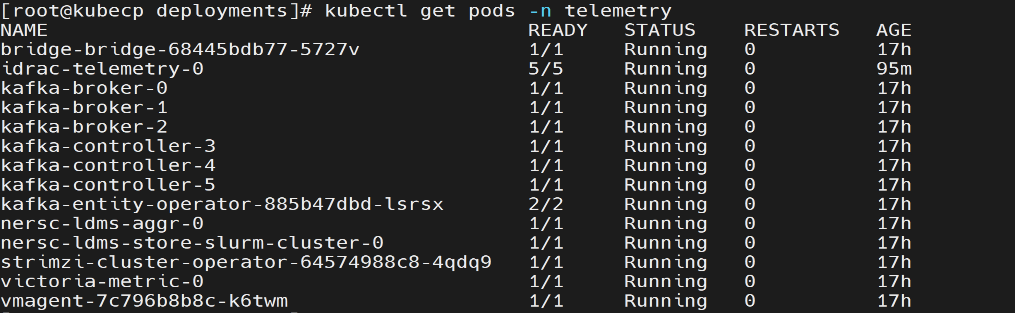
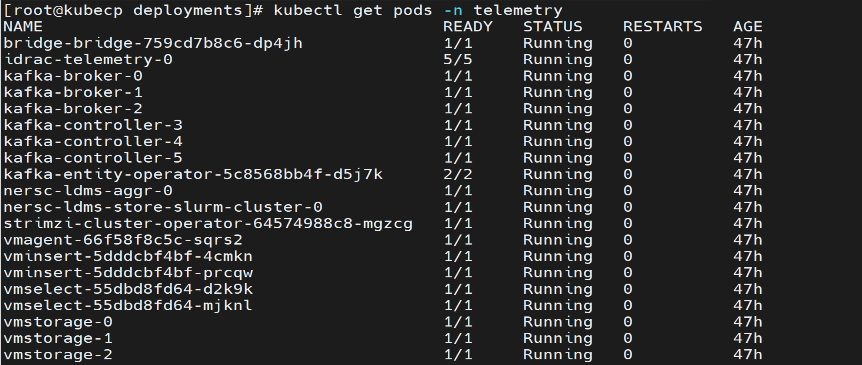
Updated for the defect.

Changed region(s): [[0.0, 0.0, 0.9049, 1.0]]

diff --git a/docs/source/OmniaInstallGuide/RHEL_new/Telemetry/verify_telemetry.rst b/docs/source/OmniaInstallGuide/RHEL_new/Telemetry/verify_telemetry.rst
@@ -1,5 +1,5 @@
 Step 16: Verify Telemetry Services deployed on the cluster
-=========================================================
+===========================================================
 
 This section outlines the steps to validate telemetry services and their components, including checking pod status, 
 verifying message flow, confirming TLS connectivity, and reviewing collected telemetry data.
@@ -36,18 +36,10 @@ To verify kubernetes telmetry services attached to the iDRAC Telemetry, Kafka, L
 
 2. Ensure the following services entries exist:
 
-    * bridge-bridge-lb
-    * bridge-bridge-service
-    * idrac-telemetry-service
-    * kafka-broker-0
-    * kafka-broker-1
-    * kafka-broker-2
-    * kafka-kafka-bootstrap
-    * kafka-kafka-brokers
-    * kafka-kafka-external-bootstrap
-    * nersc-ldms-aggr
-    * nersc-ldms-store
-    * victoria-loadbalancer
+    * iDRAC Telemetry service
+    * Kafka broker, controller, and bridge services
+    * LDMS aggregator and store services
+    * VictoriaMetrics service
 
 The following is the sample output file:
 
@@ -61,7 +53,7 @@ To verify that iDRAC telemetry data is being successfully published to the ``idr
 
 1. Create a Kafka consumer using the following command::
 
-    curl -X POST http://10.11.0.100:8080/consumers/idrac-consumer-group \
+    curl -X POST http://<<external loadbalancer IP of the bridge-bridge-lb service>>:8080/consumers/idrac-consumer-group \
       -H 'content-type: application/vnd.kafka.v2+json' \
       -d '{
             "name": "idrac-consumer-1",
@@ -71,14 +63,14 @@ To verify that iDRAC telemetry data is being successfully published to the ``idr
 
 2. Subscribe the consumer to the telemetry topic using the following command::
 
-    curl -X POST http://10.11.0.100:8080/consumers/idrac-consumer-group/instances/idrac-consumer-1/subscription \
+    curl -X POST http://<external loadbalancer IP of the bridge-bridge-lb service>:8080/consumers/idrac-consumer-group/instances/idrac-consumer-1/subscription \
       -H 'content-type: application/vnd.kafka.v2+json' \
       -d '{"topics": ["idrac"]}'
 
 3. Consume messages from the topic using the following command::
   
-    curl -X GET http://10.11.0.100:8080/consumers/idrac-consumer-group/instances/idrac-consumer-1/records \
-      -H 'accept: application/vnd.kafka.json.v2+json' | jq '.'
+    while true; do curl -X GET http://<external loadbalancer IP of the bridge-bridge-lb service>:8080/consumers/idrac-consumer-group/instances/idrac-consumer-1/records \
+      -H 'accept: application/vnd.kafka.json.v2+json' | jq '.' ;  sleep 2; done
 
 If telemetry metrics are collected correctly, the output contains JSON-formatted iDRAC telemetry records.
 
@@ -89,7 +81,7 @@ To verify that LDMS telemetry data is being successfully published to the ``ldms
 
 1. Create a Kafka consumer using the following command::
 
-    curl -X POST http://10.11.0.100:8080/consumers/ldms-consumer-group \
+    curl -X POST http://<external loadbalancer IP of the bridge-bridge-lb service>:8080/consumers/ldms-consumer-group \
       -H 'content-type: application/vnd.kafka.v2+json' \
       -d '{
             "name": "ldms-consumer-1",
@@ -100,14 +92,14 @@ To verify that LDMS telemetry data is being successfully published to the ``ldms
 
 2. Subscribe the consumer to the LDMS topic using the following command::
 
-    curl -X POST http://10.11.0.100:8080/consumers/ldms-consumer-group/instances/ldms-consumer-1/subscription \
-      -H 'content-type: application/vnd.kafka.v2+json' \
+    curl -X POST http://<external loadbalancer IP of the bridge-bridge-lb service>:8080/consumers/ldms-consumer-group/instances/ldms-consumer-1/subscription \
+      -H 'content-type: application/vnd.kafka.v2+json' \ 
       -d '{"topics": ["ldms"]}'
 
 3. Consume messages from the topic using the following command::
 
-    curl -X GET http://10.11.0.100:8080/consumers/ldms-consumer-group/instances/ldms-consumer-1/records \
-      -H 'accept: application/vnd.kafka.json.v2+json' | jq '.'
+     while true; do curl -X GET http://<external loadbalancer IP of the bridge-bridge-lb service>:8080/consumers/ldms-consumer-group/instances/ldms-consumer-1/records \
+      -H 'accept: application/vnd.kafka.json.v2+json' | jq '.' ;  sleep 2; done
 
 If telemetry is flowing correctly, the output contains JSON-formatted LDMS telemetry records.
 
@@ -117,6 +109,7 @@ Verify Kafka TLS Connectivity
 To verify TLS connectivity for Kafka, run the Kafka TLS test job to verify that
 certificates, truststores, keystores, and mTLS communication are functioning correctly::
 
+    cd /<nfs client mount path of the service k8s cluster>/telemetry/deployments/test
     kubectl apply -f kafka.tls_test_job.yaml
 
 After the job completes, check the logs to confirm that the TLS connection is successful::
@@ -130,6 +123,7 @@ Verify VictoriaMetrics TLS Connectivity
 To verify TLS connectivity for VictoriaMetrics, run the VictoriaMetrics TLS test job to
 verify that certificates and secure connectivity are functioning correctly::
 
+    cd /<nfs client mount path of the service k8s cluster>/telemetry/deployments/test
     kubectl apply -f victoria-tls-test-job.yaml
 
 After the job completes, check the logs to confirm that the TLS connection is successful::
@@ -137,10 +131,15 @@ After the job completes, check the logs to confirm that the TLS connection is su
     kubectl logs victoria-tls-test-xxx -n telemetry    
 
 
-View collected iDRAC telemetry data using Victoria Metrics UI (VMUI)
----------------------------------------------------------------------
+View collected iDRAC telemetry data using Victoria Metrics UI (VMUI) - Single Mode Deployment
+----------------------------------------------------------------------------------------------
 
-After applying the ``telemetry.yml`` configuration using the VictoriaMetrics collection type, follow these steps to verify and view the collected telemetry:
+After applying the ``telemetry.yml`` configuration using the VictoriaMetrics deployment mode as ``single-node``, 
+use the (VMUI) to validate that iDRAC telemetry data is being collected and stored 
+successfully in a single-mode VictoriaMetrics deployment. For more details, see
+ `VictoriaMetrics Single Server documentation <https://docs.victoriametrics.com/victoriametrics/single-server-victoriametrics/>`_.
+
+
 
 1. Run the following command to verify that the VictoriaMetrics pod is running::
 
@@ -158,7 +157,7 @@ After applying the ``telemetry.yml`` configuration using the VictoriaMetrics col
 
 4. Access the VMUI in a web browser using::
 
-       http://<external IP>:8428/vmui
+       http://<external victoria metrics loadbalancer IP>:8428/vmui
 
 5. Filter and view telemetry metrics using queries in VMUI.
    For example, the following query displays detailed temperature
@@ -167,6 +166,42 @@ After applying the ``telemetry.yml`` configuration using the VictoriaMetrics col
        {name="PowerEdge_TemperatureReading", FQDD!=""}
 
    .. image:: ../../../images/victoria_metrics_vmui.png
+
+
+
+View collected iDRAC telemetry data using Victoria Metrics UI (VMUI) - Cluster Mode Deployment
+----------------------------------------------------------------------------------------------
+
+After applying the ``telemetry.yml`` configuration using the VictoriaMetrics deployment mode as ``cluster``, 
+use the (VMUI) to validate that iDRAC telemetry data is being collected and stored 
+successfully in a cluster mode VictoriaMetrics deployment. For more details, see 
+`VictoriaMetrics Cluster deployment documentation <https://docs.victoriametrics.com/victoriametrics/cluster-victoriametrics/>`_.
+
+1. Run the following command to verify that the VictoriaMetrics pod is running::
+
+       kubectl get pods -n telemetry -o wide | grep vm
+
+   .. image:: ../../../images/victoria_metrics_pod_cluster_mode.png
+
+2. Run the following command to verify that the VictoriaMetrics service is running::
+
+       kubectl get service -n telemetry -o wide | grep vm
+
+   .. image:: ../../../images/victoria_metrics_service_cluster.png
+
+3. Note the **External IP** and **port number** of the VictoriaMetrics service. The external IP and port number will be used to access the VictoriaMetrics UI (VMUI).
+
+4. Access the VMUI in a web browser using::
+
+       https://<external vmselect loadbalancer IP>:8481/select/0/vmui 
+
+5. Filter and view telemetry metrics using queries in VMUI.
+   For example, the following query displays detailed PowerEdge metrics for each hardware component::
+
+       {__name__=~"PowerEdge_.*"}
+
+   .. image:: ../../../images/victoria_metrics_vmui_cluster.png
+    
 
 
 Accessing the ``mysqldb`` database

diff --git a/docs/source/OmniaInstallGuide/RHEL_new/Telemetry/external_telemetry.rst b/docs/source/OmniaInstallGuide/RHEL_new/Telemetry/external_telemetry.rst
@@ -5,7 +5,9 @@ Collect Telemetry Data from External Nodes
 This section describes how to create a Kafka topic in the Omnia Service Kubernetes cluster
 and configure an external telemetry producer to stream metrics securely into the Service Clusters using mutual TLS (mTLS).
 
-This procedure assumes that Kafka is deployed using Strimzi inside the telemetry namespace of the service cluster.
+This procedure assumes that Kafka is deployed using Strimzi inside the telemetry namespace of the service cluster. For more details, see
+`Strimzi Kafka Operator Documentation <https://strimzi.io/docs/operators/latest/overview>`_
+
 
 Prerequisites
 ---------------

diff --git a/docs/source/OmniaInstallGuide/RHEL_new/Telemetry/ldms_telemetry.rst b/docs/source/OmniaInstallGuide/RHEL_new/Telemetry/ldms_telemetry.rst
@@ -11,6 +11,8 @@ LDMS collects system metrics such as CPU, memory, network, I/O, and Slurm job st
 - **LDMS store:** Buffers and stores metric batches reliably. Runs as a Kubernetes pod.
 - **Kafka broker:** Handles telemetry streaming for consumption by downstream systems.
 
+For more details on LDMS, see `Lightweight Distributed Metric Service <https://github.com/ovis-hpc/ldms>`_
+
 
 During deployment, Omnia attaches LDMS aggregator and store pods to the admin network using an ipvLAN interface created through Multus CNI. This configuration improves throughput between Slurm nodes and the Kubernetes cluster.
 
